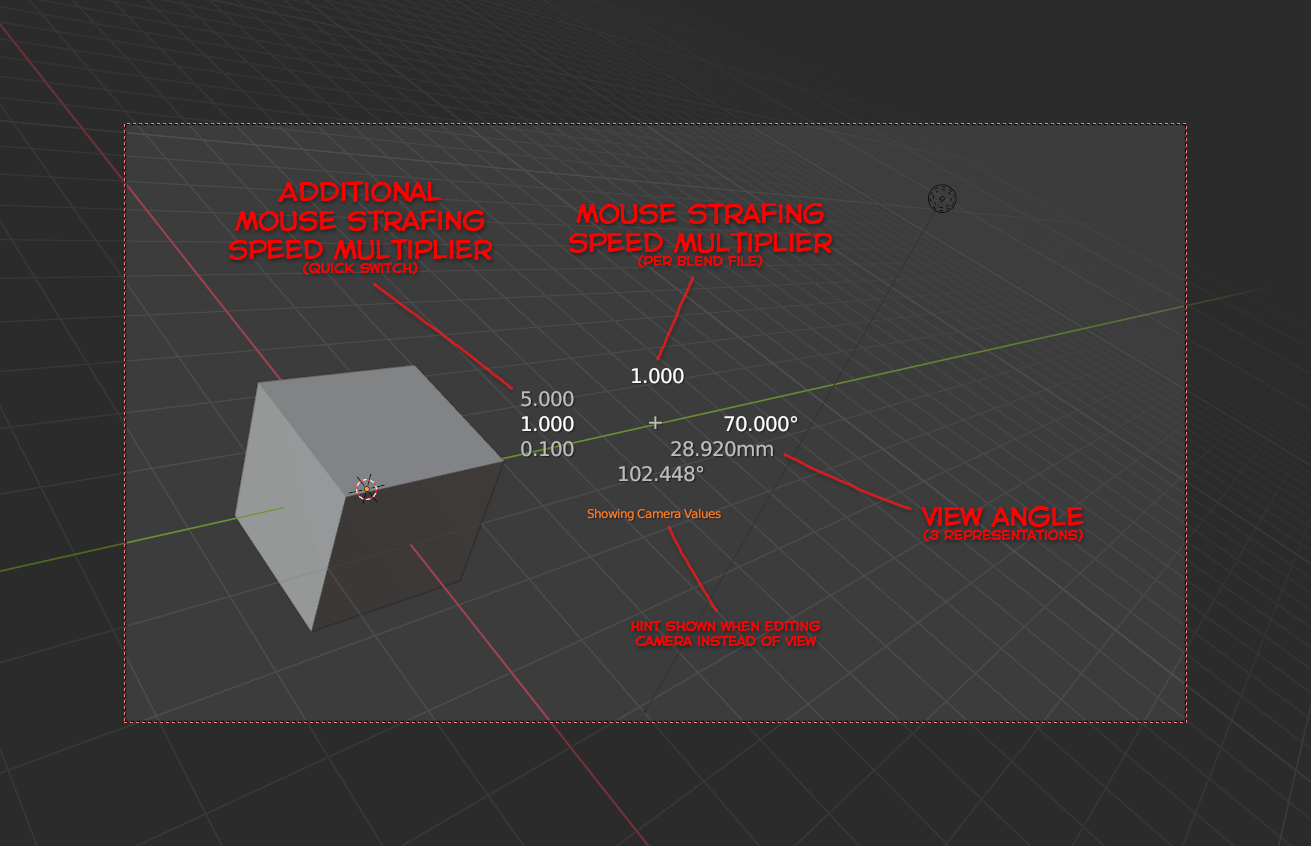
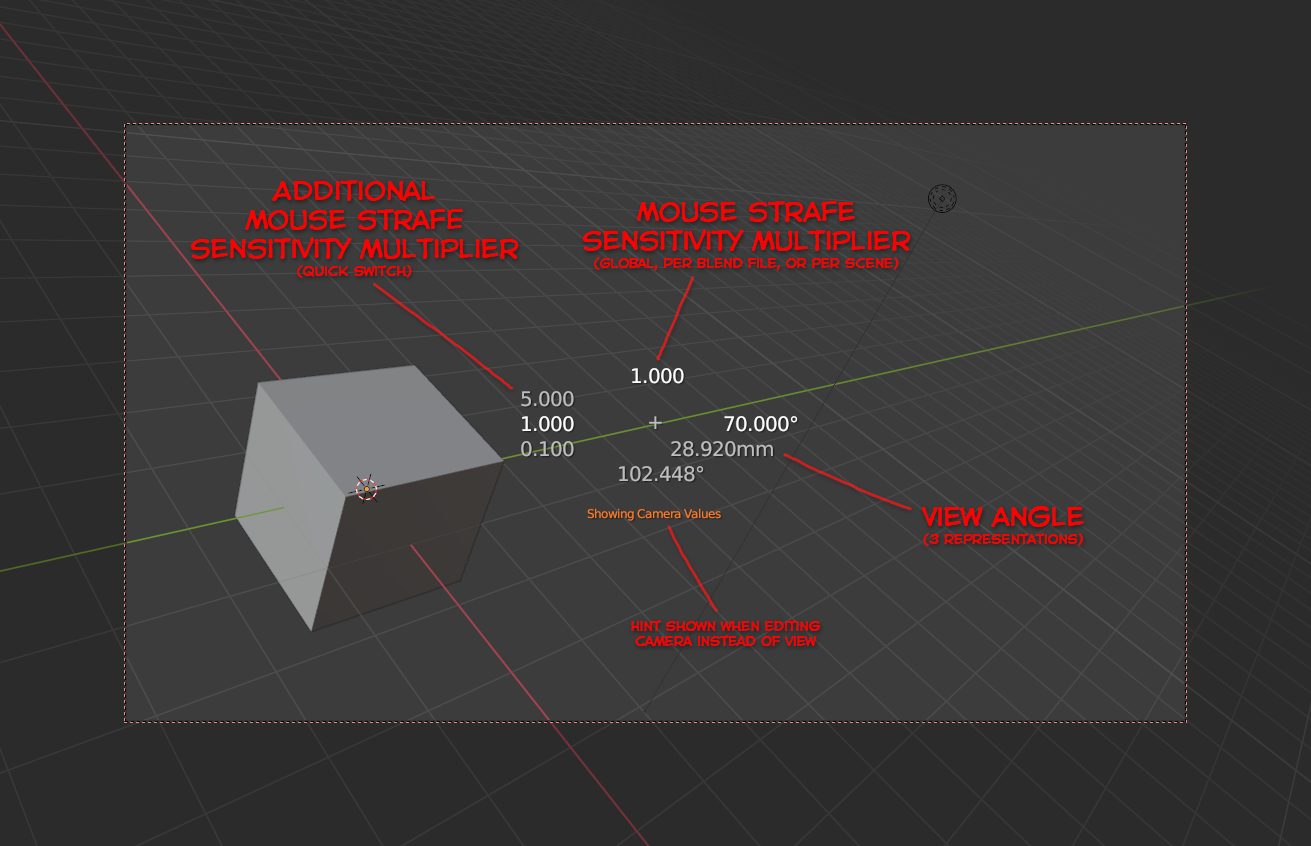
Update readme

Changed region(s): [[0.4272, 0.2151, 0.7018, 0.3381], [0.1526, 0.2151, 0.3966, 0.3381], [0.7018, 0.6147, 0.8238, 0.6454]]

diff --git a/__init__.py b/__init__.py
@@ -69,7 +69,7 @@ def registerProperties():
     if not hasattr(bpy.types.Scene, "mstrf_use_shared_scene_strafe_sensitivity"):
         bpy.types.Scene.mstrf_use_shared_scene_strafe_sensitivity = bpy.props.BoolProperty(name = "Use custom Strafe Sensitivity", description = "Click to set a custom mouse strafe sensitivity for all scenes", options = {"HIDDEN"})
     if not hasattr(bpy.types.Scene, "mstrf_strafe_sensitivity_source"):
-        bpy.types.Scene.mstrf_strafe_sensitivity_source = bpy.props.EnumProperty(name = "Source", description = "Set where to read mouse strafing sensitivity from", items = strafeSensitivitySourceOptions, default = "global", \
+        bpy.types.Scene.mstrf_strafe_sensitivity_source = bpy.props.EnumProperty(name = "Scope", description = "Set where to read mouse strafing sensitivity from", items = strafeSensitivitySourceOptions, default = "global", \
             set = setStrafeSensitivitySource, get = getStrafeSensitivitySource)
 
 def unregisterProperties():
@@ -85,6 +85,8 @@ def unregisterProperties():
         del bpy.types.Scene.mstrf_use_scene_strafe_sensitivity
     if hasattr(bpy.types.Scene, "mstrf_use_shared_scene_strafe_sensitivity"):
         del bpy.types.Scene.mstrf_use_shared_scene_strafe_sensitivity
+    if hasattr(bpy.types.Scene, "mstrf_strafe_sensitivity_source"):
+        del bpy.types.Scene.mstrf_strafe_sensitivity_source
 
 def unregister():
     mouse_strafing.unregister_keymaps()

diff --git a/README.md b/README.md
@@ -5,42 +5,43 @@ Strafe in Blender's 3D View using the mouse, while holding down a key. Useful fo
 
 ![Overlay UI](img/camera_view.png "Overlay UI")
 
-This overlay information is only displayed while you are changing view properties.
+This overlay information is only displayed when changing view properties while using mouse strafing navigation.
 
 ## Addon preferences
 
 ![Addon preferences](img/prefs.png "Addon preferences")
 
 # Installation
-1. In Blender, find a key you want to use for the mouse strafing mode. I prefer spacebar (usually requires to unbind animation playback from it first).
+1. In Blender, find a key you want to use for the mouse strafing mode. In the following we assume you use `spacebar` (usually requires to unbind animation playback from it first).
 2. Download the latest `mouse_strafing.zip` from the [Releases page](https://github.com/Zyl9393/mouse_strafing/releases) and install it from the Blender Addons preferences page.
 3. Check in the addon's preferences that your mapped key is not in conflict with any other keys.
 
 # How to use
-
-This section assumes you set the addon up as described above.
+This section assumes you set the addon up as described above and have default key bindings. Any key bindings mentioned here only function while being within navigation.
 
 ## Navigation
-In the 3D View, press and hold the spacebar. A cross will appear in the center of the screen. Click and hold the left, right or middle mouse button to enable pannig and mouse strafing. Additionally, hold the left and right mouse button together for a 4th movement option. Then move the mouse to strafe or turn. Which buttons do what can be configured in the addon preferences.
+In the 3D View, press and hold `spacebar`. A cross will appear in the center of the screen. Click and hold the `left, right or middle mouse button` (`LMB`, `RMB`, `MMB`) to enable pannig and mouse strafing. Additionally, hold the `left and right mouse button` (`BMB`) together for a 4th movement option. Then move the mouse to strafe or turn. Which buttons do what can be configured in the addon preferences.  
+Mouse strafe sensitivity can be controlled from the view panel, where you can also configure to separately set the value only for the current file or scene instead of changing the global setting.
 
-## Relocate Pivot
-While holding the spacebar, press C to relocate the 3D View's pivot point to the surface which you are looking at. When backface culling is enabled, backfaces will be ignored.  
-You can hold C for one second to toggle automic pivot relocation on and off.
-
-## Save states
-While holding the spacebar, tap one of the number keys (0-9) to save current view to that number. Tap a number twice (within 1 second) to instead load its last saved view.
-
-## Change Field of View
-Use the scroll wheel to change the field of view or move a set distance. (See preferences)
-* Mouse wheel for field of view.
-
-## Reset Roll
-While holding the spacebar, press R to reset view camera roll.
+![View panel](img/view_panel.png "View panel")
 
 ## Speed adjustment
-Hold the Shift key to go 5 times faster. Hold the Ctrl key to go 5 times slower. For panning, you can reduce the speed by pressing Alt. Hold Ctrl and Alt at the same time to go at only 2% speed.
-* Alt + mouse wheel for base strafing speed.
-* G and Shift+G to cycle "gears" (additional strafing speed multiplier).
+Hold `Shift` to move at 500% speed. Hold `Ctrl` to go at 20% speed. For panning, you can reduce the sensitivity by holding `Alt`.  
+You can specify additional speed multipliers in the addon preferences through which you can cycle by pressing `G` or `Shift + G`.  
+You can also configure `mouse wheel` to change mouse strafe sensitivity in the addon preferences.
+
+## Relocate Pivot
+While holding `spacebar`, press `C` to relocate the 3D View's pivot point to the surface which you are looking at. When backface culling is enabled, backfaces will be ignored.  
+You can hold `C` for one second to toggle automic pivot relocation on and off.
+
+## Save states
+While holding the `spacebar`, tap one of the number keys (`0`-`9`) to save current view to that number. Tap a number twice (within 1 second) to instead load its last saved view. You can also press `T` and then a number key to load.
+
+## Change Field of View
+Use `Alt + mouse wheel` to change the field of view. The manner in which the field of view is modified (horizontal angle, vertical angle or focal length) can be changed in the addon's preferences.
+
+## Reset Roll
+While holding `spacebar`, press `R` to reset camera roll.
 
 ## WASD
-Just as with the Fly Operator, you can use WASD (and Q and E) to move and strafe with the keyboard.
+Just as with the Fly Operator, you can use `WASD` (and `Q` and `E`) to move and strafe with the keyboard.

diff --git a/CHANGES.md b/CHANGES.md
@@ -1,4 +1,4 @@
-# 2.2 (TBD)
+# 2.2 (2021-09-25)
 * Camera save states now also save and load 3D View projection mode (perspective/orthographic).
 * Fixed a typo which broke panning when the invert mouse option was disabled.
 * Changing view angle with the mouse wheel now displays change on screen for a moment.
